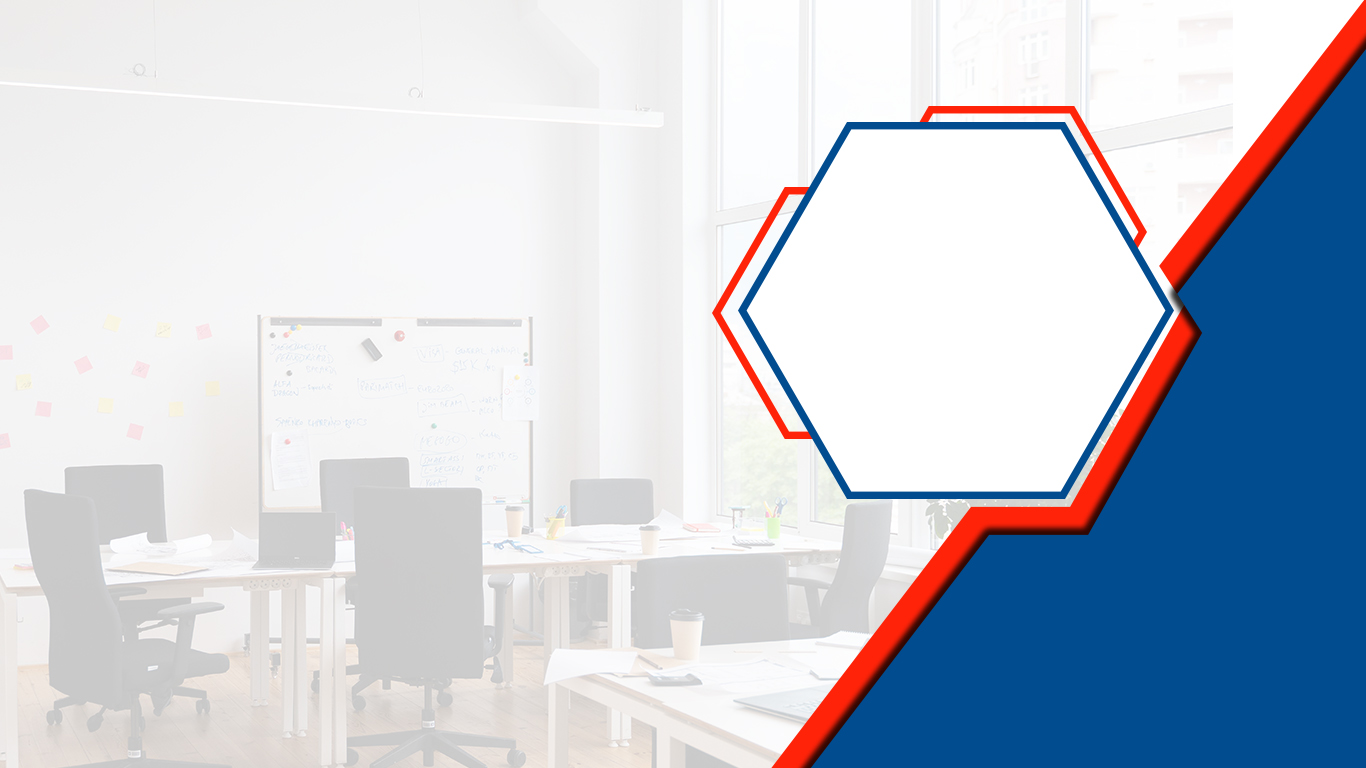
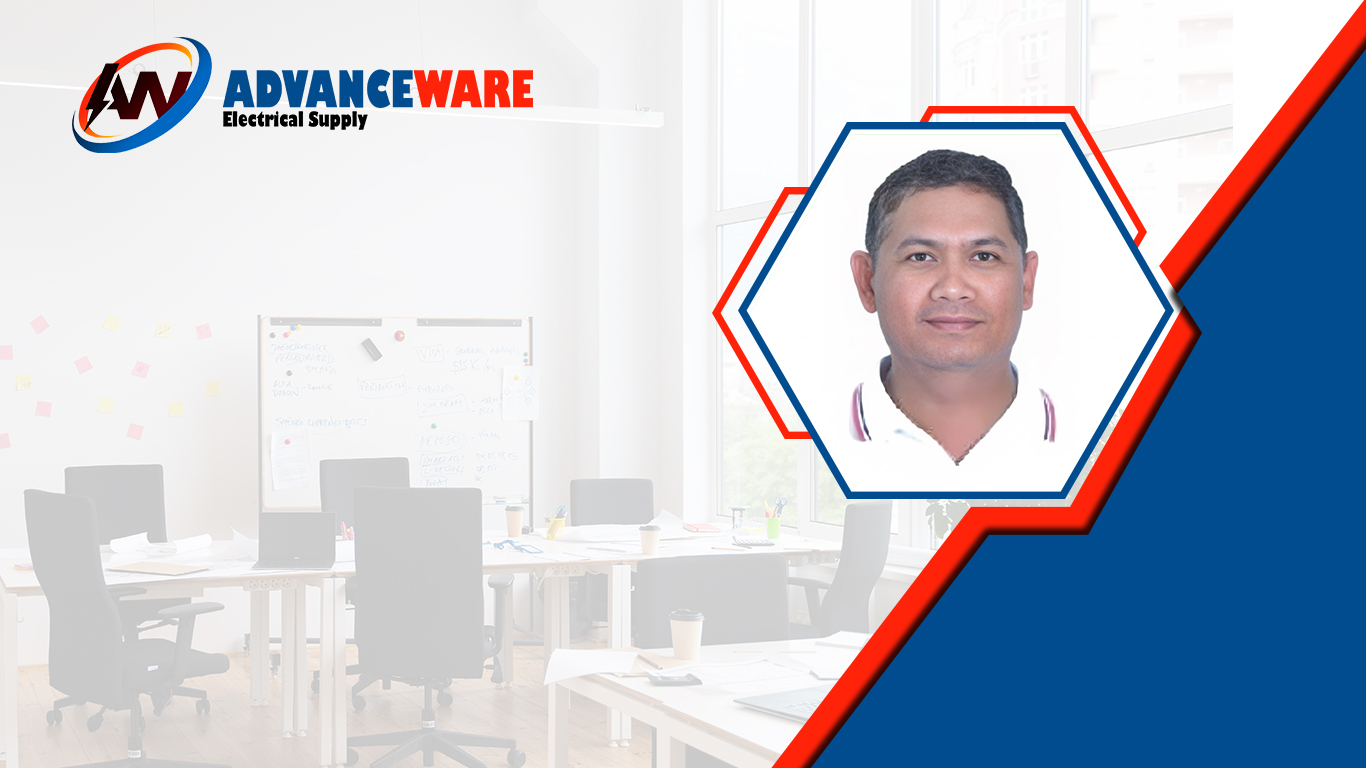
new

Changed region(s): [[0.6149, 0.1875, 0.7994, 0.5938], [0.0307, 0.0312, 0.3997, 0.2188]]

diff --git a/Manager/index.html b/Manager/index.html
@@ -30,8 +30,8 @@
             <div class="content d-flex flex-row px-5">
                 <div class="info py-5 px-5">
                     <div class="name">
-                        <h3><b>Engr. Florante C. Maglupay</b></h3>
-                        <h4><b>General Manager</b></h4>
+                        <h3><b>Fritzie Marie B. Maglupay</b></h3>
+                        <h4><b>Manager</b></h4>
                     </div>
                     <div class="contact d-flex flex-row">
                         <div>
@@ -52,7 +52,7 @@
                             <div>
                                 <p>
                                     <i class="fa-sharp fa-solid fa-phone" style="padding-right: 10px;"></i>
-                                    <b>0917-708-8828</b>
+                                    <b>0917-654-7788</b>
                                 </p>
                             </div>
                             <div>
